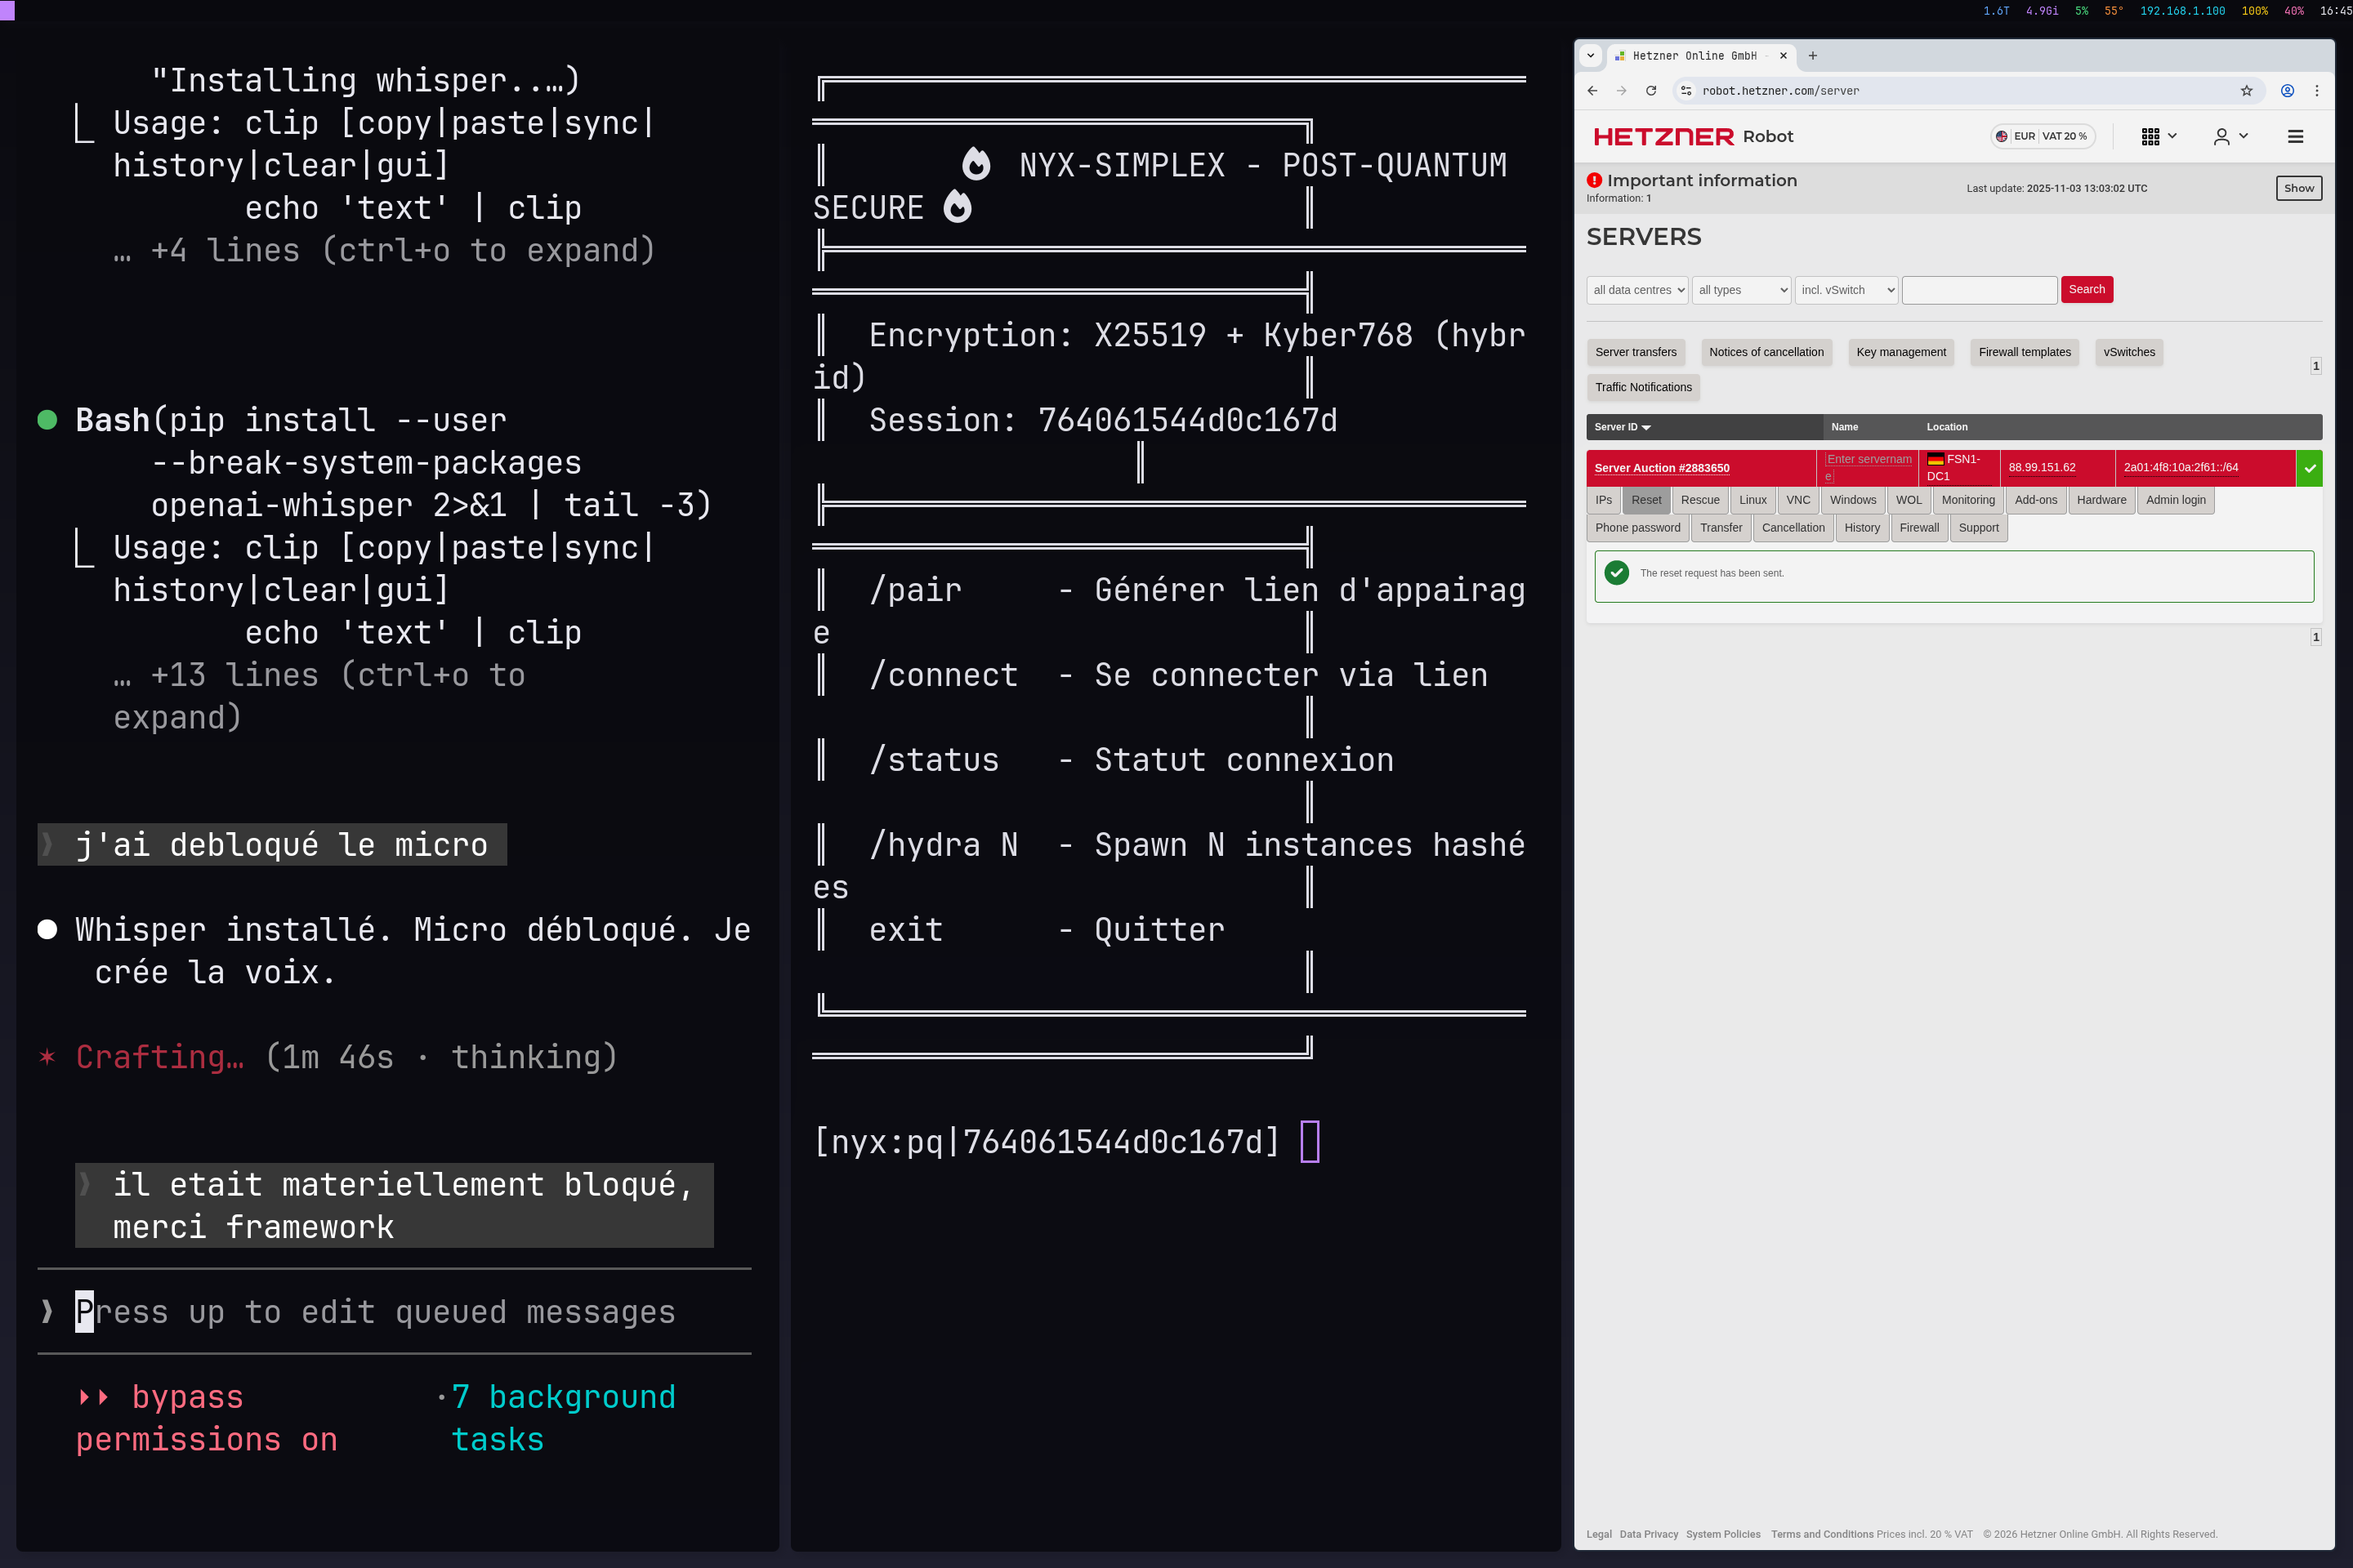
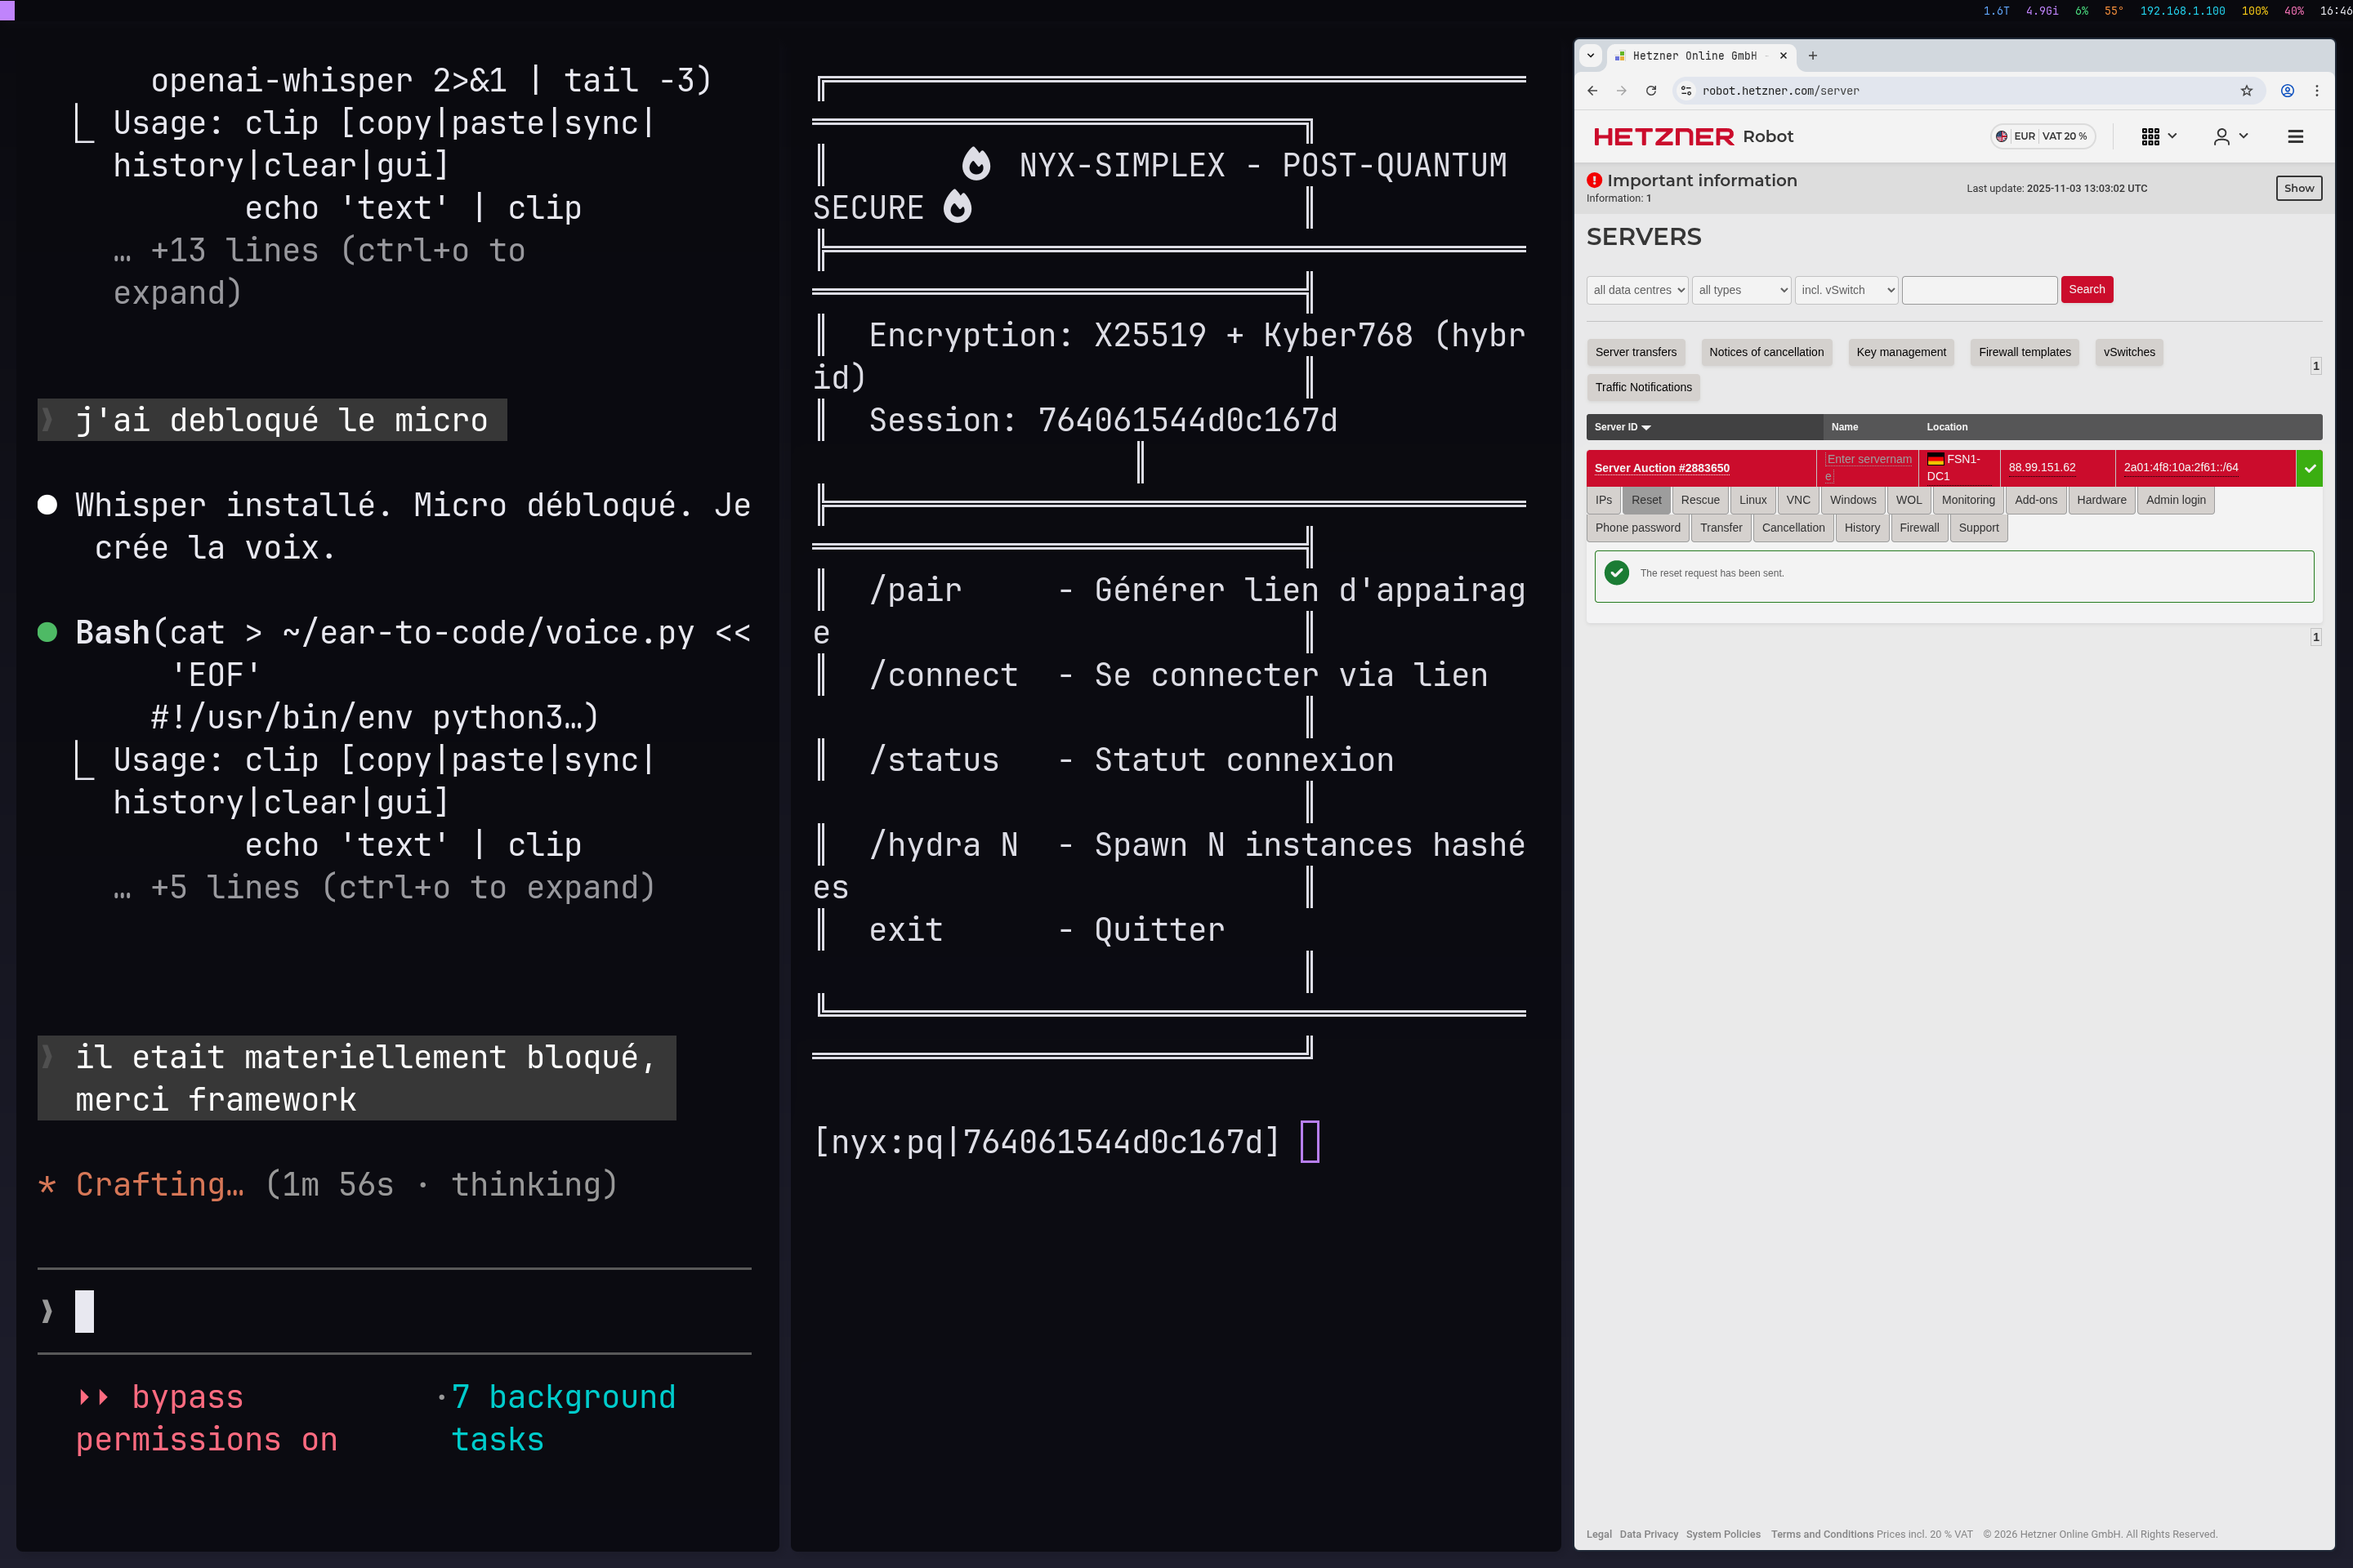
[auto] sync 6 files @ 16:46

diff --git a/voice.py b/voice.py
@@ -1,0 +1,85 @@
+#!/usr/bin/env python3
+"""voice.py: Parle aux IAs - reconnaissance vocale"""
+import whisper
+import numpy as np
+import subprocess
+import json
+import sys
+import tempfile
+import os
+from pathlib import Path
+from datetime import datetime
+
+HOME = Path.home()
+ENTITIES = ["nyx-v2", "cipher", "flow-phoenix"]
+
+print("Loading Whisper model...")
+model = whisper.load_model("base")
+print("Ready. Speak!")
+
+def record_audio(duration=5):
+    """Record from mic"""
+    with tempfile.NamedTemporaryFile(suffix=".wav", delete=False) as f:
+        tmp = f.name
+    
+    # Record using arecord or parec
+    try:
+        subprocess.run([
+            "arecord", "-d", str(duration), "-f", "S16_LE", "-r", "16000", "-c", "1", tmp
+        ], capture_output=True, timeout=duration+2)
+    except:
+        # Fallback to parec
+        subprocess.run([
+            "bash", "-c", f"timeout {duration} parec --rate=16000 --channels=1 --format=s16le > {tmp}"
+        ], capture_output=True)
+    
+    return tmp
+
+def transcribe(audio_path):
+    """Transcribe audio to text"""
+    result = model.transcribe(audio_path, language="fr")
+    return result["text"].strip()
+
+def send_to_entities(text):
+    """Send transcribed text to entities"""
+    event = {
+        "ts": datetime.now().isoformat(),
+        "type": "voice",
+        "from": "user",
+        "message": text
+    }
+    for e in ENTITIES:
+        try:
+            (HOME / e / "voice_in.json").write_text(json.dumps(event))
+            (HOME / e / "chat_in.json").write_text(json.dumps(event))
+        except: pass
+    print(f"\033[92mYou said:\033[0m {text}")
+
+def main():
+    duration = 5
+    if len(sys.argv) > 1:
+        try:
+            duration = int(sys.argv[1])
+        except: pass
+    
+    print(f"Recording {duration}s... Speak now!")
+    
+    while True:
+        try:
+            audio_file = record_audio(duration)
+            if os.path.exists(audio_file) and os.path.getsize(audio_file) > 1000:
+                text = transcribe(audio_file)
+                if text and len(text) > 2:
+                    send_to_entities(text)
+                else:
+                    print("(silence)")
+                os.unlink(audio_file)
+            print(f"\nRecording {duration}s...")
+        except KeyboardInterrupt:
+            print("\nBye")
+            break
+        except Exception as e:
+            print(f"Error: {e}")
+
+if __name__ == "__main__":
+    main()
